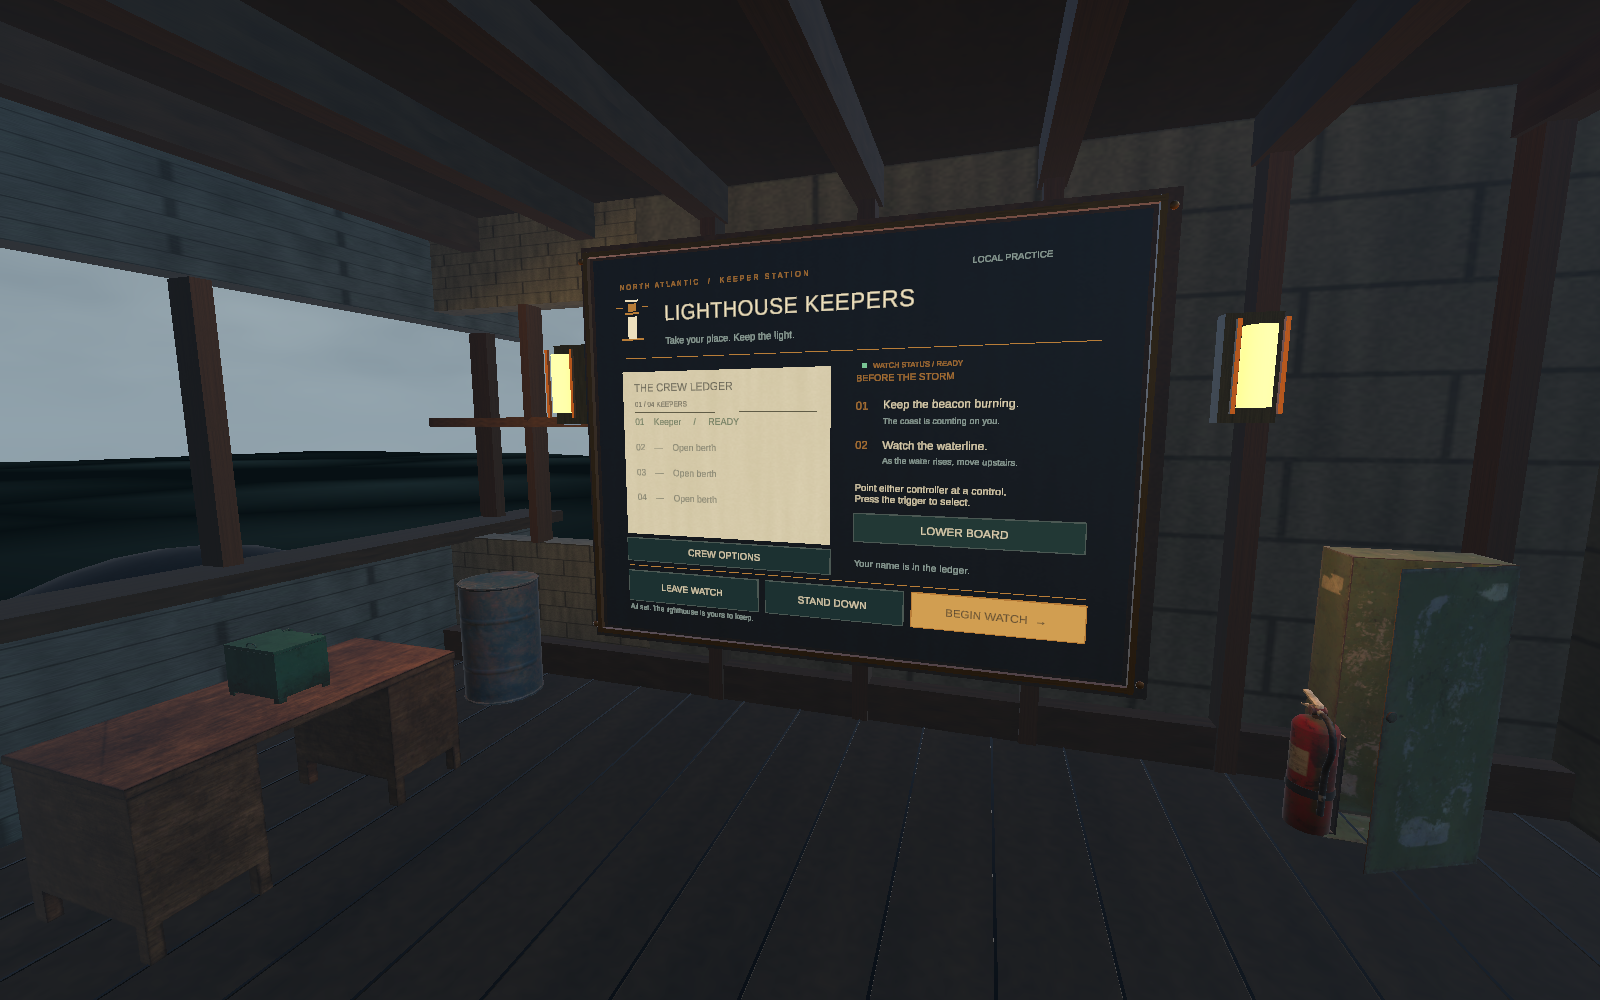
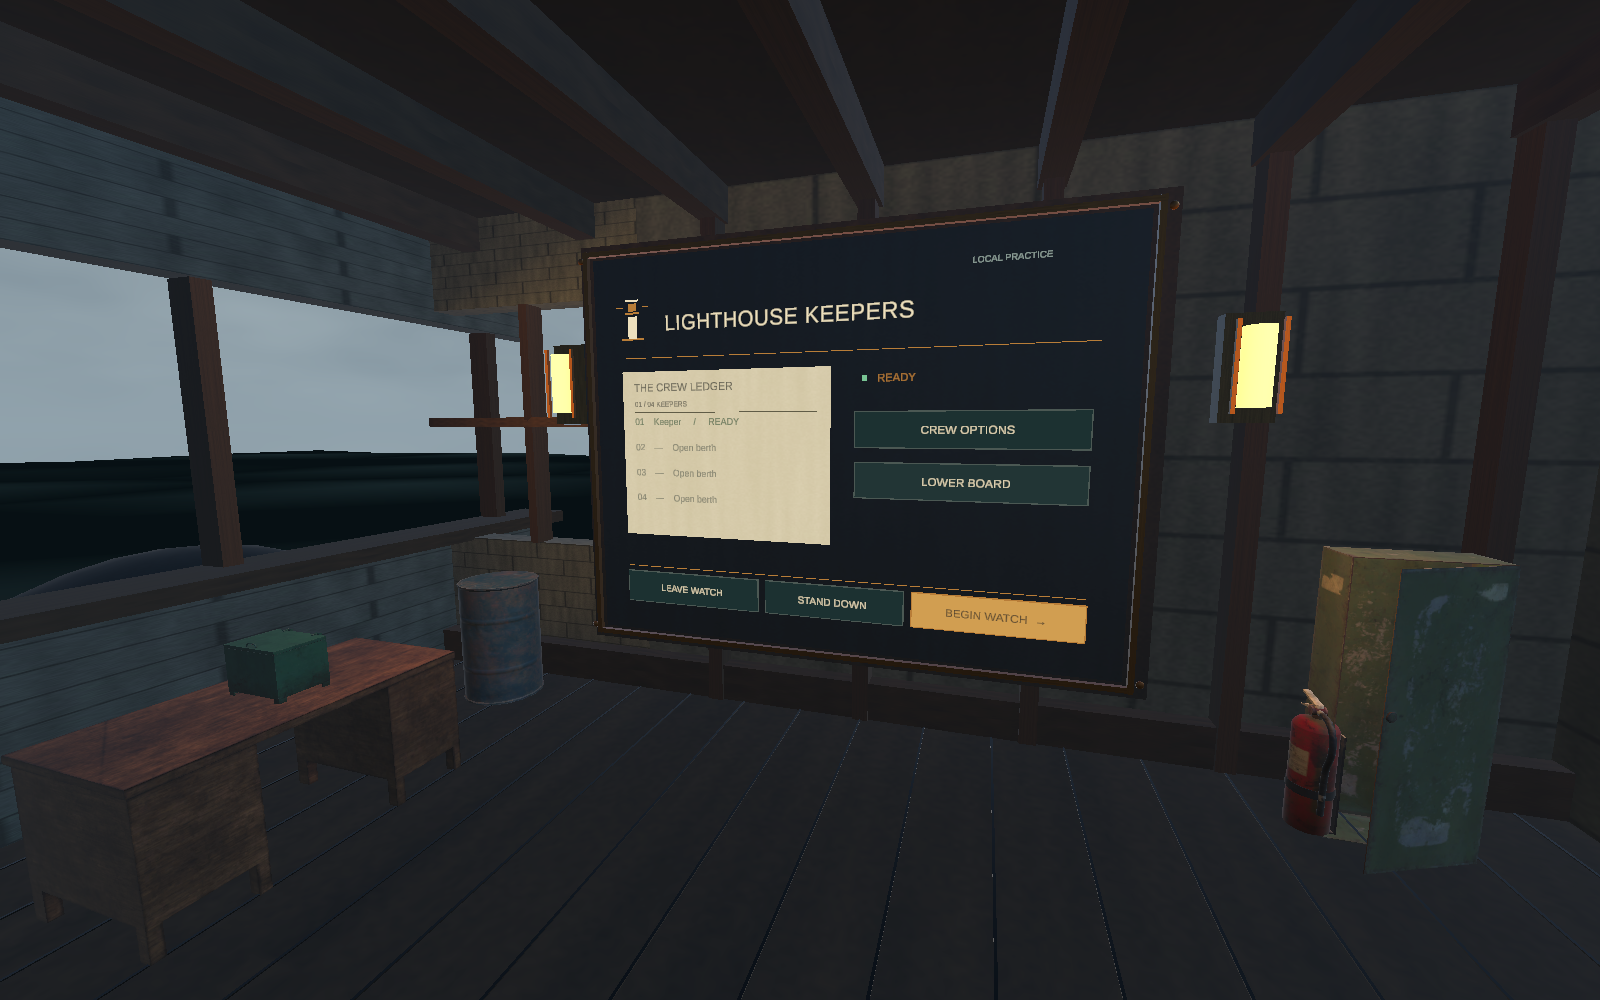
Remove lobby subtext and simplify board layout

Changed region(s): [[0.375, 0.341, 0.6875, 0.62], [0.4062, 0.279, 0.5938, 0.341]]

diff --git a/Assets/_LighthouseKeepers/Scripts/Runtime/Lobby/LobbyScreen.cs b/Assets/_LighthouseKeepers/Scripts/Runtime/Lobby/LobbyScreen.cs
@@ -14,7 +14,7 @@ namespace LighthouseKeepers.Lobby
         [SerializeField] AudioClip selectSound;
         [SerializeField] Transform boardMount;
         Canvas canvas;
-        TMP_Text statusText, hintText, modeText, crewCount, readyCaption;
+        TMP_Text errorText, modeText, crewCount, readyCaption;
         readonly TMP_Text[] rosterRows = new TMP_Text[8];
         TMP_InputField nameField, addressField;
         Button hostButton, joinButton, readyButton, startButton, leaveButton, heightButton;
@@ -93,8 +93,7 @@ namespace LighthouseKeepers.Lobby
         {
             if (!manager || !modeText) return;
             bool local = manager.IsLocalPreview;
-            modeText.text = local ? "LOCAL PRACTICE" : "CREW SESSION";
-            statusText.text = manager.IsOnline ? (manager.IsHost ? "Your name is in the ledger." : "Guest preview · simulated crew") : "A storm is coming. Take your post.";
+            modeText.text = local ? (manager.IsOnline && !manager.IsHost ? "SIMULATED GUEST" : "LOCAL PRACTICE") : "CREW SESSION";
             crewCount.text = $"{manager.Players.Count:00} / {manager.MaxPlayers:00} KEEPERS";
             for (int i = 0; i < rosterRows.Length; i++)
             {
@@ -110,11 +109,10 @@ namespace LighthouseKeepers.Lobby
                 row.color = player.IsReady ? new Color(.12f,.35f,.22f) : Ink;
             }
             bool ready = manager.LocalPlayer()?.IsReady == true;
-            readyCaption.text = ready ? "WATCH STATUS / READY" : "WATCH STATUS / STANDBY";
+            readyCaption.text = ready ? "READY" : "STANDBY";
             watchLamp.color = ready ? Ready : Brass;
-            hintText.text = !string.IsNullOrEmpty(manager.LastError) ? manager.LastError : !manager.IsOnline
-                ? "Sign the ledger, then signal that you are ready."
-                : manager.CanStart ? "All set. The lighthouse is yours to keep." : manager.StartHint;
+            errorText.text = manager.LastError;
+            errorText.gameObject.SetActive(!string.IsNullOrEmpty(manager.LastError));
             SetButtonLabel(readyButton, ready ? "STAND DOWN" : "SIGNAL READY");
             hostButton.transform.parent.gameObject.SetActive(!manager.IsOnline);
             leaveButton.transform.parent.gameObject.SetActive(manager.IsOnline);
@@ -139,12 +137,10 @@ namespace LighthouseKeepers.Lobby
             var scaler = root.gameObject.AddComponent<CanvasScaler>();
             scaler.dynamicPixelsPerUnit = 2;
             // The slate backing and brass frame are real scene geometry behind this transparent canvas.
-            Label(root, "Station", new(-575, 422), new(720, 28), 19, Brass, "N O R T H   A T L A N T I C     /     K E E P E R   S T A T I O N");
             modeText = Label(root, "Mode", new(310, 422), new(265, 28), 19, Muted, "LOCAL PRACTICE");
             LighthouseMark(root, new Vector2(-541, 326));
-            var title = Label(root, "Title", new(-447, 351), new(1010, 90), 53, Chalk, "LIGHTHOUSE KEEPERS");
+            var title = Label(root, "Title", new(-447, 326), new(1010, 90), 53, Chalk, "LIGHTHOUSE KEEPERS");
             title.characterSpacing = 3;
-            Label(root, "Motto", new(-445, 280), new(1000, 44), 25, Muted, "Take your place. Keep the light.");
             Rule(root, new(0, 240), new(1150, 2), Brass);
             roster = Rect("CrewLedger", root, new(-291, -11), new(570, 432)).gameObject;
             var sheet = roster.AddComponent<Image>(); sheet.color = Paper; sheet.raycastTarget = false;
@@ -158,24 +154,19 @@ namespace LighthouseKeepers.Lobby
                 rosterRows[i] = Label(roster.transform, "CrewSlot" + i, new(0, 84-i*40), new(502, 40), 25, Ink, "");
                 rosterRows[i].rectTransform.pivot = new(.5f,.5f);
             }
-            Label(root, "Briefing", new(55, 175), new(490, 35), 22, Brass, "BEFORE THE STORM");
-            BriefingLine(root, 111, "01", "Keep the beacon burning.", "The coast is counting on you.");
-            BriefingLine(root, 19, "02", "Watch the waterline.", "As the water rises, move upstairs.");
-            Label(root, "Controls", new(55, -98), new(510, 70), 23, Chalk, "Point either controller at a control.\nPress the trigger to select.");
-            heightButton = MakeButton(root, "BoardHeight", "LOWER BOARD", new(310,-180), new(510,66), false);
+            heightButton = MakeButton(root, "BoardHeight", "LOWER BOARD", new(310,-65), new(510,82), false);
             heightButton.onClick.AddListener(() => SetLowered(!lowered));
-            var details = MakeButton(root, "CrewOptions", "CREW OPTIONS", new(-291,-270), new(570,60), false);
+            var details = MakeButton(root, "CrewOptions", "CREW OPTIONS", new(310,55), new(510,82), false);
             details.onClick.AddListener(() => { bool show = !options.activeSelf; options.SetActive(show); roster.SetActive(!show); });
-            statusText = Label(root, "Status", new(55,-270), new(510,55), 23, Muted, "");
             Rule(root, new(0,-315), new(1150,2), Brass);
             hostButton = MakeButton(root, "OpenPractice", "TAKE YOUR POST", new(-386,-372), new(378,82), false);
             leaveButton = MakeButton(root, "Leave", "LEAVE WATCH", new(-386,-372), new(378,82), false);
             readyButton = MakeButton(root, "Ready", "SIGNAL READY", new(0,-372), new(350,82), false);
             startButton = MakeButton(root, "Start", "BEGIN WATCH  →", new(386,-372), new(378,82), true);
-            hintText = Label(root, "StartHint", new(-575,-434), new(1150,42), 21, Muted, "");
-            watchLamp = Rect("WatchLamp", root, new(75,204), new(12,12)).gameObject.AddComponent<Image>();
+            errorText = Label(root, "Error", new(-575,-434), new(1150,42), 21, Muted, "");
+            watchLamp = Rect("WatchLamp", root, new(75,175), new(12,12)).gameObject.AddComponent<Image>();
             watchLamp.raycastTarget = false;
-            readyCaption = Label(root, "WatchStatus", new(95,203), new(470,26), 17, Brass, "WATCH STATUS / STANDBY");
+            readyCaption = Label(root, "WatchStatus", new(105,175), new(450,38), 26, Brass, "STANDBY");
             BuildOptions(root);
         }
         void BuildOptions(Transform root)
@@ -187,16 +178,8 @@ namespace LighthouseKeepers.Lobby
             nameField.text = manager.PlayerName; nameField.characterLimit = 24;
             addressField = Input(options.transform, "HostAddress", new(0,18), "Host address");
             addressField.characterLimit = 128; addressGroup = addressField.gameObject;
-            Label(options.transform, "SimulationNote", new(-250,-58), new(500,94), 23, Muted,
-                "Local practice works without typing.\nGuest simulation is for preview only;\nit does not connect another headset.");
             joinButton = MakeButton(options.transform, "JoinCrew", "SIMULATE A GUEST", new(0,-159), new(500,70), false);
             options.SetActive(false);
-        }
-        void BriefingLine(Transform root, float y, string number, string title, string detail)
-        {
-            Label(root, "Step"+number, new(55,y), new(65,35), 27, Brass, number);
-            Label(root, "Task"+number, new(120,y), new(455,38), 26, Chalk, title);
-            Label(root, "Detail"+number, new(120,y-38), new(455,36), 20, Muted, detail);
         }
         static void Rule(Transform parent, Vector2 position, Vector2 size, Color color)
         {

diff --git a/Docs/LobbyAndFloodIteration.md b/Docs/LobbyAndFloodIteration.md
@@ -8,7 +8,7 @@ The lobby is an authored keeper room, using the same worn timber, slate, brass, 
 
 Both desktop and XR render the **same world-space board**. There is no screen-space overlay or panel that follows head rotation. Leaning or walking gives real parallax between the controls, frame, fittings and room. The starting distance is about 2.8m; the player can approach. The board is 2.56m wide and 1.92m tall. Main controls are at least 70cm wide and 16cm high, positioned near 1m above the floor. TextMesh Pro's existing distance-field font keeps lettering legible as viewing distance changes.
 
-The large default controls are **Take your post → Signal ready → Begin watch**. Status uses words and a colored watch indicator. Button hover/press changes color, the label depresses slightly within a fixed hit target, selection plays a quiet spatial click, and tracked-pointer events request short haptic impulses from that controller. Hardware sensation remains to be verified.
+The large default controls are **Take your post → Signal ready → Begin watch**. The board keeps only the title, session mode, crew ledger, readiness, controls and errors when needed. Decorative taglines, briefing copy, controller instructions, helper paragraphs and routine status sentences are omitted. Readiness uses a word and a colored watch indicator. Button hover/press changes color, the label depresses slightly within a fixed hit target, selection plays a quiet spatial click, and tracked-pointer events request short haptic impulses from that controller. Hardware sensation remains to be verified.
 
 **Lower board** moves the whole physical frame and canvas down 25cm for seated use; **Raise board** restores its authored position. It never moves the camera or XR origin. **Crew options** contains optional name entry and the explicitly labeled guest simulation, keeping setup fields out of the default view. Local practice requires no keyboard.
 

diff --git a/Docs/Verification/Lobby/README.md b/Docs/Verification/Lobby/README.md
@@ -12,6 +12,8 @@ Unity **6000.3.23f1**, macOS Editor. Base: `main` at `41c9819` (PR #20).
 
 Play Mode entry is deferred to the next editor callback to avoid Unity's startup search-index exception. Newly revealed UI is rendered before checking raycast depth. The final records and images correspond to the corrected source.
 
+The captures were refreshed after removing decorative and explanatory subtext. The rendered interaction check passed again with the simplified layout.
+
 ## Captures
 
 1. [Offline / take your post](01-offline.png)
